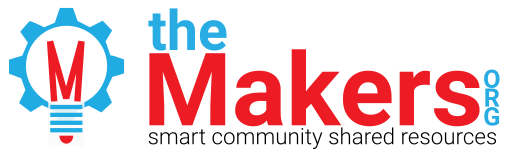
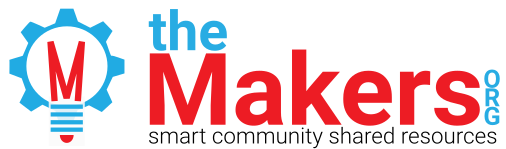
resize of og image..

diff --git a/config/website.js b/config/website.js
@@ -7,7 +7,7 @@ module.exports = {
   headline: 'Makerspace, hackerspace, your space', // Headline for schema.org JSONLD
   url: 'https://themakers.org', // Domain of your site. No trailing slash!
   siteLanguage: 'en', // Language Tag on <html> element
-  logo: '/img/hero.png', // Used for SEO
+  logo: '/img/og-image.png', // Used for SEO
   ogLanguage: 'en_US', // Facebook Language
 
   // JSONLD / Manifest
